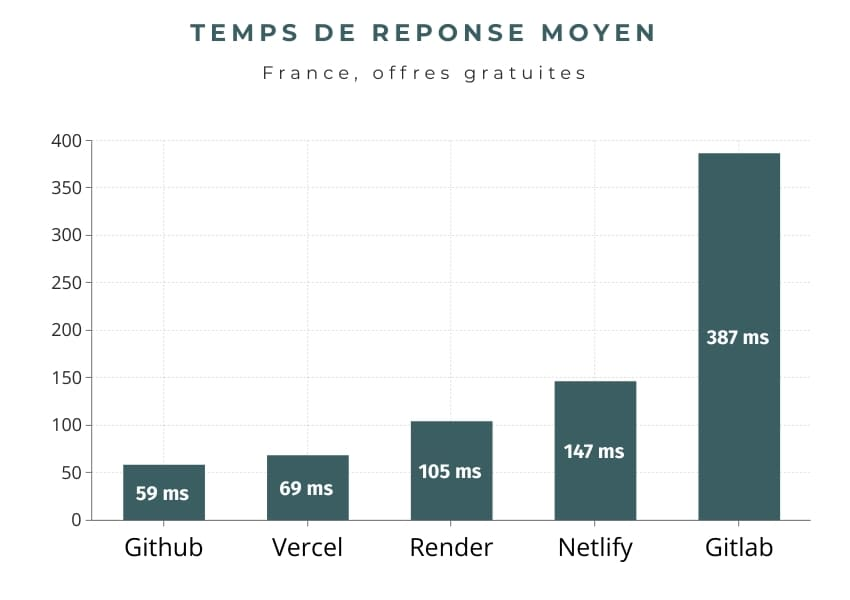
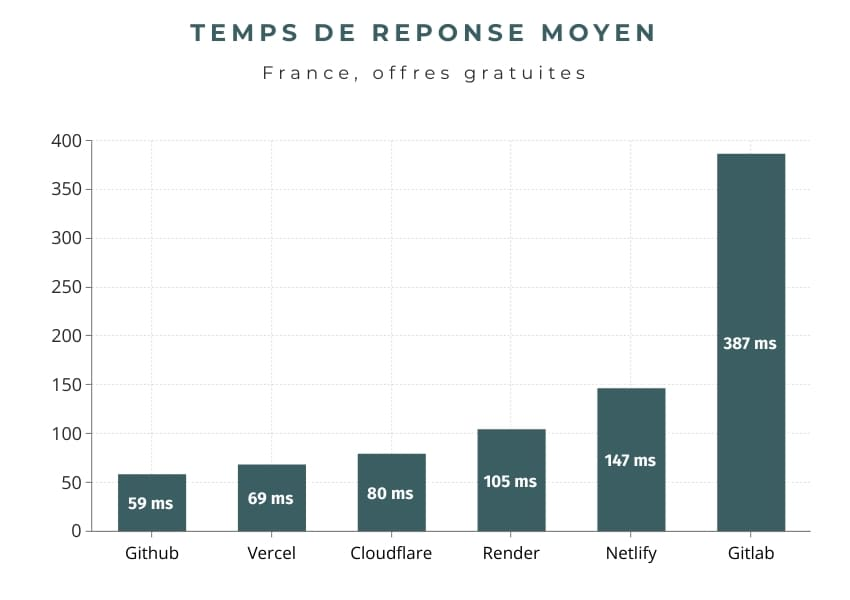
Cloudflare added

diff --git a/docs/blog/heberger-gratuitement-un-site-statique.html b/docs/blog/heberger-gratuitement-un-site-statique.html
@@ -78,11 +78,11 @@
 </p>
 
 <p>
-    J'ai retenu <strong>5 solutions</strong> : Github Pages, Gitlab Pages, Netlify, Vercel et Render.
+    J'ai retenu <strong>6 solutions</strong> : Github Pages, Gitlab Pages, Netlify, Vercel, Render et Cloudflare Pages.
 </p>
 
 <p>
-    Pour les tests j'ai utilisé le site Magentix (celui que vous lisez actuellement) que j'ai hébergé (temporairement) sur 5 sous-domaines :
+    Pour les tests j'ai utilisé le site Magentix (celui que vous lisez actuellement) que j'ai hébergé (temporairement) sur 6 sous-domaines :
 </p>
 
 <ul>
@@ -91,10 +91,11 @@
     <li><strong>Netlify</strong> : netlify.magentix.fr</li>
     <li><strong>Vercel</strong> : vercel.magentix.fr</li>
     <li><strong>Render</strong> : render.magentix.fr</li>
+    <li><strong>Cloudflare Pages</strong> : cloudflare.magentix.fr</li>
 </ul>
 
 <p>
-    Ces 5 solutions proposent toutes gratuitement les fonctionnalités qui m'intéressent :
+    Ces 6 solutions proposent toutes gratuitement les fonctionnalités qui m'intéressent :
 </p>
 
 <ul>
@@ -107,8 +108,12 @@
 </ul>
 
 <p>
-    Les bandes passantes sont systématiquement limitées à 100GB. Cela correspond à 1.000.000 de pages vues par mois pour des pages de 100ko.
+    Les bandes passantes sont souvent limitées à 100GB. Cela correspond à 1.000.000 de pages vues par mois pour des pages de 100ko.
     Cette bande passante est partagée par <strong>tous les sites</strong> de votre compte.
+</p>
+
+<p>
+    Petite exception avec <strong>Cloudflare Pages</strong> qui propose une bande passante illimitée dans son offre gratuite.
 </p>
 
 <p>
@@ -132,7 +137,7 @@
 </p>
 
 <p>
-    J'effectue les tests de TTFB (Time To First Byte) depuis chez moi avec des requêtes toutes les 30 secondes sur les 5 sous-domaines.
+    J'effectue les tests de TTFB (Time To First Byte) depuis chez moi avec des requêtes toutes les 30 secondes sur les 6 sous-domaines.
 </p>
 
 <p class="warning">
@@ -232,8 +237,13 @@ pages:
 </p>
 
 <p>
-    Il est possible de customiser les en-têtes HTTP avec un simple fichier <code>_header</code> à la racine du site.
+    Il est possible de customiser les en-têtes HTTP avec un simple fichier <code>_headers</code> à la racine du site.
 </p>
+
+<pre>
+/*
+  X-Frame-Options: DENY
+</pre>
 
 <ul class="compare">
     <li class="positive">Mise en ligne très simple</li>
@@ -299,6 +309,38 @@ pages:
     <li class="positive">En-têtes HTTP personnalisables</li>
 </ul>
 
+<h3>Cloudflare Pages</h3>
+
+<p>
+    La solution de déploiement <strong>Cloudflare Pages</strong> a été lancée en avril 2021.
+    Cloudflare est le spécialiste du CDN et dispose de sa propre infrastructure, c'est un énorme avantage.
+</p>
+
+<p>
+    En 15 minutes le site était en ligne, l'interface est sobre et va à l'essentiel.
+    On peut simplement noter un temps de build supérieur aux concurrents. Il faut compter environ 3 minutes pour déployer le site
+    (soit 3 minutes entre un commit et la publication des modifications).
+</p>
+
+<p>
+    J'ai obtenu un TTFB moyen depuis la France de <strong>80ms</strong>, ce qui représente un très bon résultat.
+</p>
+
+<p>
+    Cloudflare propose la customisation des en-têtes HTTP depuis un simple fichier <code>_headers</code> à la racine du site.
+</p>
+
+<pre>
+/*
+  X-Frame-Options: DENY
+</pre>
+
+<ul class="compare">
+    <li class="positive">Temps de réponse très bon</li>
+    <li class="positive">Mise en ligne très simple</li>
+    <li class="positive">En-têtes HTTP personnalisables</li>
+</ul>
+
 <h2>Conclusion</h2>
 
 <p>
@@ -306,11 +348,16 @@ pages:
 </p>
 
 <p>
-    <strong>Github Pages</strong> vient en seconde position mais pourrait passer devant Vercel dans le cas où le dépôt public ne serait pas une contrainte.
+    Suivi de très près par <strong>Cloudflare Pages</strong> avec un temps de réponse légèrement supérieur.
 </p>
 
 <p>
-    Je place <strong>Netlify</strong> en troisième position, pénalisé par un temps de réponse depuis la France assez médiocre par rapport aux concurrents.
+    <strong>Github Pages</strong> vient en troisième position mais c'est une excellente alternative dans le cas où le dépôt public ne serait pas une contrainte.
+    Il est tout de même dommage de ne pas pouvoir modifier les headers.
+</p>
+
+<p>
+    Je place <strong>Netlify</strong> en quatrième position, pénalisé par un temps de réponse depuis la France assez médiocre par rapport aux concurrents.
 </p>
 
 <p>

diff --git a/source/page/blog/static-hosting.html b/source/page/blog/static-hosting.html
@@ -46,11 +46,11 @@
 </p>
 
 <p>
-    J'ai retenu <strong>5 solutions</strong> : Github Pages, Gitlab Pages, Netlify, Vercel et Render.
+    J'ai retenu <strong>6 solutions</strong> : Github Pages, Gitlab Pages, Netlify, Vercel, Render et Cloudflare Pages.
 </p>
 
 <p>
-    Pour les tests j'ai utilisé le site Magentix (celui que vous lisez actuellement) que j'ai hébergé (temporairement) sur 5 sous-domaines :
+    Pour les tests j'ai utilisé le site Magentix (celui que vous lisez actuellement) que j'ai hébergé (temporairement) sur 6 sous-domaines :
 </p>
 
 <ul>
@@ -59,10 +59,11 @@
     <li><strong>Netlify</strong> : netlify.magentix.fr</li>
     <li><strong>Vercel</strong> : vercel.magentix.fr</li>
     <li><strong>Render</strong> : render.magentix.fr</li>
+    <li><strong>Cloudflare Pages</strong> : cloudflare.magentix.fr</li>
 </ul>
 
 <p>
-    Ces 5 solutions proposent toutes gratuitement les fonctionnalités qui m'intéressent :
+    Ces 6 solutions proposent toutes gratuitement les fonctionnalités qui m'intéressent :
 </p>
 
 <ul>
@@ -75,8 +76,12 @@
 </ul>
 
 <p>
-    Les bandes passantes sont systématiquement limitées à 100GB. Cela correspond à 1.000.000 de pages vues par mois pour des pages de 100ko.
+    Les bandes passantes sont souvent limitées à 100GB. Cela correspond à 1.000.000 de pages vues par mois pour des pages de 100ko.
     Cette bande passante est partagée par <strong>tous les sites</strong> de votre compte.
+</p>
+
+<p>
+    Petite exception avec <strong>Cloudflare Pages</strong> qui propose une bande passante illimitée dans son offre gratuite.
 </p>
 
 <p>
@@ -100,7 +105,7 @@
 </p>
 
 <p>
-    J'effectue les tests de TTFB (Time To First Byte) depuis chez moi avec des requêtes toutes les 30 secondes sur les 5 sous-domaines.
+    J'effectue les tests de TTFB (Time To First Byte) depuis chez moi avec des requêtes toutes les 30 secondes sur les 6 sous-domaines.
 </p>
 
 <p class="warning">
@@ -200,8 +205,13 @@ pages:
 </p>
 
 <p>
-    Il est possible de customiser les en-têtes HTTP avec un simple fichier <code>_header</code> à la racine du site.
+    Il est possible de customiser les en-têtes HTTP avec un simple fichier <code>_headers</code> à la racine du site.
 </p>
+
+<pre>
+/*
+  X-Frame-Options: DENY
+</pre>
 
 <ul class="compare">
     <li class="positive">Mise en ligne très simple</li>
@@ -267,6 +277,38 @@ pages:
     <li class="positive">En-têtes HTTP personnalisables</li>
 </ul>
 
+<h3>Cloudflare Pages</h3>
+
+<p>
+    La solution de déploiement <strong>Cloudflare Pages</strong> a été lancée en avril 2021.
+    Cloudflare est le spécialiste du CDN et dispose de sa propre infrastructure, c'est un énorme avantage.
+</p>
+
+<p>
+    En 15 minutes le site était en ligne, l'interface est sobre et va à l'essentiel.
+    On peut simplement noter un temps de build supérieur aux concurrents. Il faut compter environ 3 minutes pour déployer le site
+    (soit 3 minutes entre un commit et la publication des modifications).
+</p>
+
+<p>
+    J'ai obtenu un TTFB moyen depuis la France de <strong>80ms</strong>, ce qui représente un très bon résultat.
+</p>
+
+<p>
+    Cloudflare propose la customisation des en-têtes HTTP depuis un simple fichier <code>_headers</code> à la racine du site.
+</p>
+
+<pre>
+/*
+  X-Frame-Options: DENY
+</pre>
+
+<ul class="compare">
+    <li class="positive">Temps de réponse très bon</li>
+    <li class="positive">Mise en ligne très simple</li>
+    <li class="positive">En-têtes HTTP personnalisables</li>
+</ul>
+
 <h2>Conclusion</h2>
 
 <p>
@@ -274,11 +316,16 @@ pages:
 </p>
 
 <p>
-    <strong>Github Pages</strong> vient en seconde position mais pourrait passer devant Vercel dans le cas où le dépôt public ne serait pas une contrainte.
+    Suivi de très près par <strong>Cloudflare Pages</strong> avec un temps de réponse légèrement supérieur.
 </p>
 
 <p>
-    Je place <strong>Netlify</strong> en troisième position, pénalisé par un temps de réponse depuis la France assez médiocre par rapport aux concurrents.
+    <strong>Github Pages</strong> vient en troisième position mais c'est une excellente alternative dans le cas où le dépôt public ne serait pas une contrainte.
+    Il est tout de même dommage de ne pas pouvoir modifier les headers.
+</p>
+
+<p>
+    Je place <strong>Netlify</strong> en quatrième position, pénalisé par un temps de réponse depuis la France assez médiocre par rapport aux concurrents.
 </p>
 
 <p>
